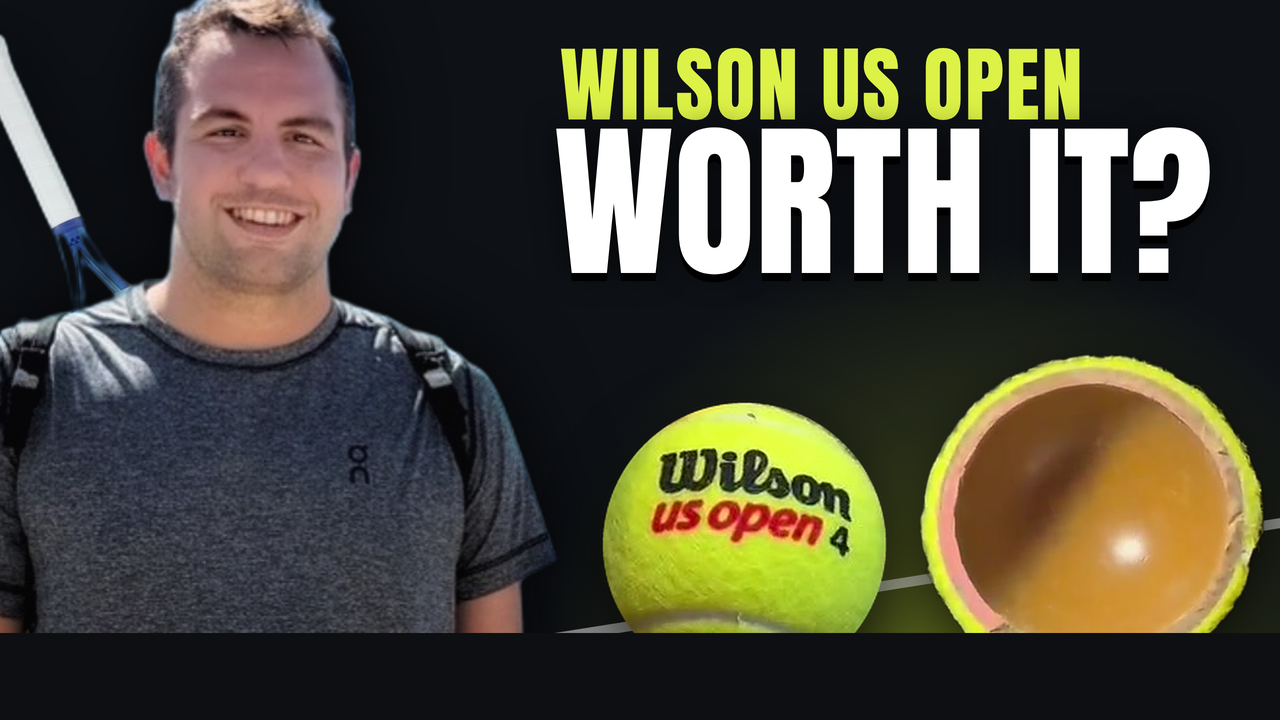
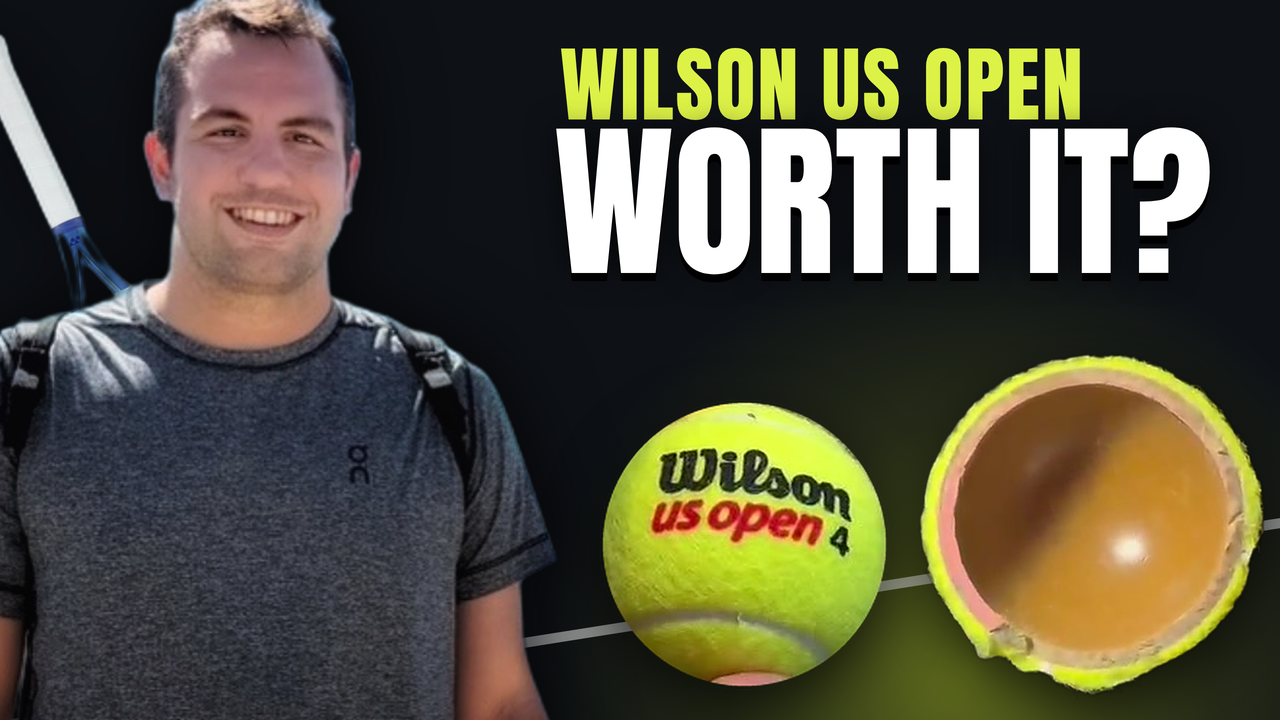
Add final thumbnail: tier-list layout with 'Best ball ever?' headline
Adds option D based on the tier-list design with the S tile highlighted,
mirrors the court background to hide the face-cam overlay, and fixes the
render script to use the headless shell so the full 720px frame is captured.

Claude-Session: https://claude.ai/code/session_01UPnxMCWKK9x7mm24LKVQJ9

diff --git a/thumbnails/wilson-us-open/option-d-best-ball.html b/thumbnails/wilson-us-open/option-d-best-ball.html
@@ -1,0 +1,30 @@
+<!doctype html><html><head><meta charset="utf-8"><link rel="stylesheet" href="base.css">
+<style>
+.bg{left:-30px;top:-30px;width:1340px;height:780px;background:url(assets/court-flipped.jpg) center/cover;filter:blur(3px) saturate(1.1)}
+.shade{left:0;top:0;width:1280px;height:720px;background:linear-gradient(180deg,rgba(8,10,14,.6) 0%,rgba(8,10,14,.4) 45%,rgba(8,10,14,.88) 100%)}
+.scott{left:735px;bottom:-80px;height:780px;filter:drop-shadow(0 0 40px rgba(0,0,0,.9))}
+.h1{left:48px;top:34px;font-size:70px;line-height:1;color:#DDF247;letter-spacing:2px;text-shadow:0 5px 0 #000}
+.row{left:48px;top:122px;display:flex;gap:12px;align-items:center}
+.tile{width:98px;height:98px;border-radius:18px;display:flex;align-items:center;justify-content:center;font-size:66px;box-shadow:0 8px 0 rgba(0,0,0,.45)}
+.tile.s{width:118px;height:118px;font-size:84px;transform:rotate(-6deg);box-shadow:0 8px 0 rgba(0,0,0,.45),0 0 0 7px #DDF247,0 0 40px rgba(221,242,71,.8)}
+.badge{position:absolute;right:-22px;top:-22px;width:56px;height:56px;border-radius:50%;background:#fff;color:#0e1116;font-size:40px;display:flex;align-items:center;justify-content:center;box-shadow:0 5px 0 rgba(0,0,0,.45)}
+.ball{left:40px;top:300px;width:290px;filter:drop-shadow(0 24px 30px rgba(0,0,0,.75))}
+.h2{left:350px;top:292px;font-size:128px;line-height:.95;color:#fff;text-shadow:0 8px 0 #000,0 0 30px rgba(0,0,0,.6);white-space:nowrap}
+.h2 span{color:#DDF247}
+.half{left:372px;top:520px;width:250px;transform:rotate(10deg);filter:drop-shadow(0 20px 30px rgba(0,0,0,.75))}
+</style></head><body><div class="t">
+<div class="abs bg"></div><div class="abs shade"></div>
+<img class="abs scott" src="assets/scott.png">
+<div class="abs h1">WILSON US OPEN</div>
+<div class="abs row">
+ <div class="tile s" style="background:#D8A52E;color:#3A2A00;position:relative">S<div class="badge">?</div></div>
+ <div class="tile" style="background:#45B16B;color:#fff">A</div>
+ <div class="tile" style="background:#95C23E;color:#2C3A05">B</div>
+ <div class="tile" style="background:#F3CC42;color:#463700">C</div>
+ <div class="tile" style="background:#EC8A33;color:#fff">D</div>
+ <div class="tile" style="background:#E14B3C;color:#fff">F</div>
+</div>
+<img class="abs ball" src="assets/ball.png">
+<div class="abs h2">BEST BALL<br><span>EVER?</span></div>
+<img class="abs half" src="assets/half.png">
+</div></body></html>

diff --git a/thumbnails/wilson-us-open/option-b-rank.html b/thumbnails/wilson-us-open/option-b-rank.html
@@ -1,6 +1,6 @@
 <!doctype html><html><head><meta charset="utf-8"><link rel="stylesheet" href="base.css">
 <style>
-.bg{left:-30px;top:-30px;width:1340px;height:780px;background:url(assets/court.jpg) center/cover;filter:blur(3px) saturate(1.1)}
+.bg{left:-30px;top:-30px;width:1340px;height:780px;background:url(assets/court-flipped.jpg) center/cover;filter:blur(3px) saturate(1.1)}
 .shade{left:0;top:0;width:1280px;height:720px;background:linear-gradient(180deg,rgba(8,10,14,.55) 0%,rgba(8,10,14,.35) 45%,rgba(8,10,14,.85) 100%)}
 .scott{left:735px;bottom:-80px;height:780px;filter:drop-shadow(0 0 40px rgba(0,0,0,.9))}
 .h1{left:48px;top:36px;font-size:74px;line-height:1;color:#DDF247;letter-spacing:2px;text-shadow:0 5px 0 #000}

diff --git a/thumbnails/wilson-us-open/README.md b/thumbnails/wilson-us-open/README.md
@@ -1,14 +1,20 @@
 # Wilson US Open review – YouTube thumbnails
 
-Three 1280x720 thumbnail options for the Wilson US Open ball review video.
+Thumbnails for the Wilson US Open ball review video (1280x720).
+
+**Final pick: `final-thumbnail.png`** (same as `out/option-d-best-ball.png`) – tier row with a glowing S tile,
+"BEST BALL EVER?" headline, ball and cut-open half, court footage behind Scott.
+
+Earlier options kept for reference:
 
 - `out/option-a-worth-it.png` – Scott left, "WILSON US OPEN / WORTH IT?", ball and cut-open half.
 - `out/option-b-rank.png` – court background, S–F tier row with a "?" tile, "WHERE DOES IT RANK?".
 - `out/option-c-cut-open.png` – yellow diagonal band, "WE CUT IT OPEN", ball and half.
+- `out/option-d-best-ball.png` – the final pick described above.
 
 JPG versions sit next to each PNG (all under YouTube's 2 MB limit).
 
 Each option is a plain HTML file styled by `base.css`. Edit the text or positions,
-then run `./render.sh` (needs Chromium and Python Pillow) to regenerate `out/`.
+then run `./render.sh` (needs the Playwright Chromium headless shell and Python Pillow) to regenerate `out/`.
 Assets in `assets/` are cut out from `tennis ball pics/me.jpg` and frames of the video.
 Fonts (Anton, Archivo Black, Barlow Condensed) are from Google Fonts under the Open Font License.
